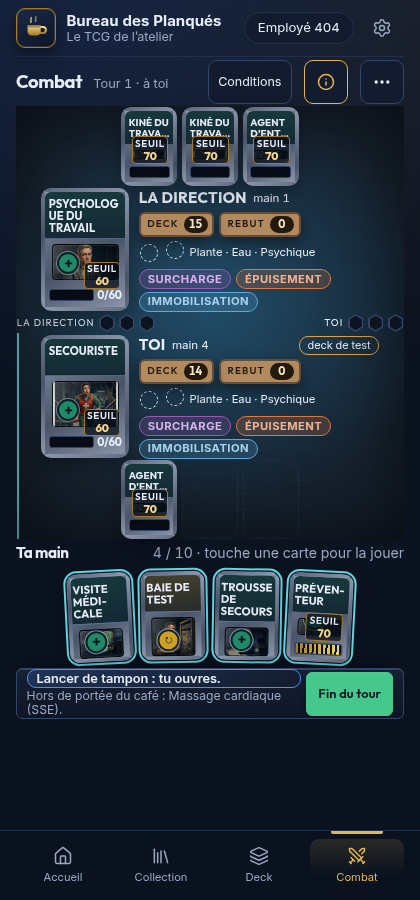
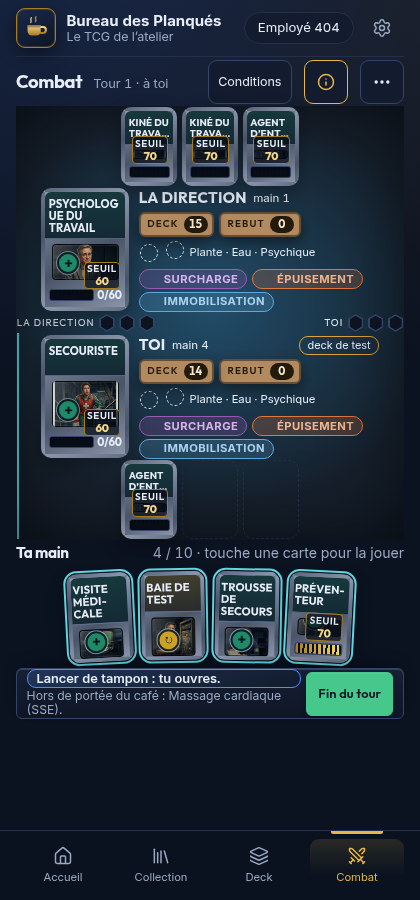
fix(combat): trois Conditions des deux côtés ne font plus défiler l'écran en sobre (#321)

Changed region(s): [[0.3405, 0.28, 0.8667, 0.3733], [0.3405, 0.4356, 0.8667, 0.5289]]

diff --git a/scripts/capturer.test.ts b/scripts/capturer.test.ts
@@ -650,7 +650,7 @@ describe('`npm run capturer` — l’écran de combat ne défile pas (D-103, #24
  * 420 × 900, avec trois Conditions et trois types par camp, les fiches passaient de 138 à
  * 188 px : l'écran défilait de 34 px et la barre d'action finissait à 846 px, sous la navigation
  * (830 px). La capture d'arrivée ne le voyait pas — il n'y a pas de Condition à l'arrivée —, d'où
- * le **pire cas** posé dans le DOM par `poserLePireCasDetaille`.
+ * le **pire cas** posé dans le DOM par `poserLePireCas`.
  */
 describe('`npm run capturer` — le mode détaillé tient dans la fenêtre (#292)', () => {
   const mesures = (barreBas: number, finBas: number) => [
@@ -689,17 +689,71 @@ describe('`npm run capturer` — le mode détaillé tient dans la fenêtre (#292
   it('joue réellement `détaillé` à chaque graine, pas-à-pas ouvert et terminé, et pose le pire cas', () => {
     const source = readFileSync(new URL('../scripts/capturer.mjs', import.meta.url), 'utf8');
     // Sans ces liens, le contrôle pourrait mordre dans son test et la capture ne mesurer que `sobre`.
-    expect(source).toContain('await mesurerDetaille(browser)');
+    expect(source).toContain('await mesurerDensite(browser, true)');
     expect(source).toContain('await mesurerAvecUnePression(browser, true)');
     expect(source).toContain('combatDetaille: true');
-    expect(source).toContain('.battle--detaille');
-    expect(source).toContain('page.evaluate(poserLePireCasDetaille)');
+    expect(source).toContain("`.battle--${detaille ? 'detaille' : 'sobre'}`");
+    expect(source).toContain('page.evaluate(poserLePireCas, detaille)');
     expect(source).toContain('${etat}, pire cas');
   });
 
-  it('range les annotations en ligne dans une fiche plus large, sans toucher aux cibles ni aux cafés (feuille de style)', () => {
+  it('range les Conditions en ligne dans les deux densités, et ne garde à `détaillé` que la largeur (feuille de style)', () => {
     const css = readFileSync(new URL('../src/styles.css', import.meta.url), 'utf8');
+    expect(css).toMatch(/\n\.poste__info\s*\{[^}]*flex-wrap:\s*wrap/);
+    expect(css).not.toMatch(/\n\.poste__info\s*\{[^}]*flex-direction:\s*column/);
     expect(css).toMatch(/\.battle--detaille \.board__fiche\s*\{[^}]*max-width:\s*15rem/);
-    expect(css).toMatch(/\.battle--detaille \.poste__info\s*\{[^}]*flex-direction:\s*row[^}]*flex-wrap:\s*wrap/);
+  });
+});
+
+/**
+ * Ticket #321 — **`sobre` aussi tient dans la fenêtre avec trois Conditions des deux côtés**.
+ *
+ * Trouvé par le harnais de #292 : en `sobre`, les Conditions (une icône chacune) étaient empilées
+ * en colonne, comme en `détaillé`. Mesuré le 27/10/2026 à 420 × 900 sur la feuille d'avant, trois
+ * Conditions par camp : l'arrivée défilait de 56 px (barre d'action à 868 px, « Fin du tour » à
+ * 865 px, navigation à 830 px) et le tour d'une Pression jouable, pas-à-pas ouvert, de 95 px.
+ * Le plan de `npm run capturer` ne **jouait** pas ce cas en `sobre`.
+ */
+describe('`npm run capturer` — `sobre` tient dans la fenêtre avec trois Conditions (#321)', () => {
+  const mesures = (mainBas: number, barreBas: number, finBas: number) => [
+    { nom: 'la main', selecteur: '.hand', present: true, haut: 612, bas: mainBas },
+    { nom: "la barre d'action du combat", selecteur: '.combat-barre', present: true, haut: 716, bas: barreBas },
+    { nom: '« Fin du tour »', selecteur: '.combat-barre__fin .button', present: true, haut: finBas - 44, bas: finBas }
+  ];
+
+  function controle(m: unknown[], defilement: number): string[] {
+    const env = { ...process.env };
+    delete env.BASE_URL;
+    delete env.PORT;
+    const sortie = execFileSync(
+      process.execPath,
+      [
+        'scripts/capturer.mjs',
+        '--controle-hauteur',
+        JSON.stringify({ limite: 830, pasAPasOuvert: true, etat: '(sobre), pire cas', mesures: m, defilement })
+      ],
+      { cwd: root, encoding: 'utf8', env }
+    );
+    return JSON.parse(sortie) as string[];
+  }
+
+  it('le contrôle mord sur la mesure d’avant : barre à 868 px, bouton à 865 px, défilement de 56 px', () => {
+    const problemes = controle(mesures(816, 868, 865), 56);
+    expect(problemes.some((p) => p.includes('défile de 56 px') && p.includes('sobre), pire cas'))).toBe(true);
+    expect(problemes.some((p) => p.includes('bas de la barre d\'action du combat à 868 px'))).toBe(true);
+    expect(problemes.some((p) => p.includes('bas de « Fin du tour » à 865 px'))).toBe(true);
+    expect(problemes.some((p) => p.includes('la main n\'a que 14 px de marge'))).toBe(true);
+  });
+
+  it('laisse passer la mesure d’après : barre à 806 px (24 px de marge), aucun défilement', () => {
+    expect(controle(mesures(714, 806, 761), 0)).toEqual([]);
+  });
+
+  it('joue `sobre` avec le pire cas, à l’arrivée et au tour d’une Pression jouable', () => {
+    const source = readFileSync(new URL('../scripts/capturer.mjs', import.meta.url), 'utf8');
+    expect(source).toContain('await mesurerDensite(browser, false)');
+    expect(source).toContain("`.battle--${detaille ? 'detaille' : 'sobre'}`");
+    // Le pire cas du tour d'une Pression jouable, dans les deux densités.
+    expect(source).toContain('${etat}, tour ${tour}, pire cas');
   });
 });

diff --git a/src/styles.css b/src/styles.css
@@ -2439,7 +2439,7 @@ h2 {
 .board__fiche {
   display: flex;
   flex-direction: column;
-  gap: 0.25rem;
+  gap: 0.15rem;
   max-width: 11rem;
   min-width: 0;
 }
@@ -2451,44 +2451,37 @@ h2 {
 
 /* Ce qui se passe au Poste (Stress écrit, cafés, Machine, Conditions), sous le nom du camp. */
 .poste__info {
-  align-items: flex-start;
+  align-items: center;
   display: flex;
-  flex-direction: column;
-  gap: 0.25rem;
+  flex-wrap: wrap;
+  gap: 0.15rem 0.3rem;
   min-width: 0;
 }
 
-/* **`détaillé` ne fait pas grossir le plateau** (#292, SPEC-COMBAT-UI T9). Les annotations qu'il
-   remet — le nom des Conditions, les types du Deck — sont plus larges que leurs icônes ; empilées
-   en colonne, trois Conditions et trois types rallongeaient chaque fiche de 50 px, et la barre
-   d'action passait sous la navigation (mesuré à 420 × 900 : défilement de 34 px, barre à 846 px
-   pour une limite de 830). Elles se rangent donc **en ligne, avec retour**, dans une fiche plus
-   large : elle garde la hauteur qu'elle a en `sobre`, et rien de ce qui décide (cafés,
-   Conditions) ne disparaît. */
-.battle--detaille .board__fiche {
-  /* Deux noms de Conditions côte à côte (≈ 190 px) : à 11 rem, chacun prenait sa rangée. */
-  gap: 0.15rem;
-  max-width: 15rem;
-}
-
-.battle--detaille .poste__info {
-  align-items: center;
-  flex-direction: row;
-  flex-wrap: wrap;
-  gap: 0.15rem 0.3rem;
-}
-
-/* Le nom d'une Condition garde la taille du plancher (`--fs-xs`) ; c'est la pastille qui se serre,
-   pour que deux rangées de Conditions ne dépassent pas la hauteur de la carte du Poste. */
-.battle--detaille .poste__info .status-chip {
+/* **Les Conditions se rangent en ligne, avec retour** (#292, #321), dans les deux densités.
+   Empilées en colonne, chacune prenait sa rangée : à 420 × 900, trois Conditions des deux côtés
+   faisaient défiler l'écran de 56 px en `sobre` (barre d'action à 868 px, navigation à 830 px) et de
+   34 px en `détaillé`. En ligne, la fiche garde la hauteur de la carte du Poste, et rien de ce qui
+   décide (cafés, Conditions) ne disparaît. La pastille se serre en hauteur ; son texte garde
+   `--fs-xs`, et sa cible n'est pas un bouton. */
+.poste__info .status-chip {
   padding-block: 0.04rem;
 }
 
-.battle--detaille .poste__machine {
+.poste__machine {
   align-items: center;
   display: inline-flex;
   flex-wrap: wrap;
   gap: 0.25rem;
+}
+
+/* **`détaillé` ne fait pas grossir le plateau** (#292, SPEC-COMBAT-UI T9). Les annotations qu'il
+   remet — le nom des Conditions, les types du Deck — sont plus larges que leurs icônes : la fiche
+   passe de `11rem` à `15rem` pour que deux noms de Conditions (≈ 190 px) tiennent côte à côte ;
+   à 11 rem, chacun prenait sa rangée. C'est la **seule** différence de rangement entre les deux
+   densités : le reste (ligne avec retour, pastille serrée) est dans la base, au-dessus. */
+.battle--detaille .board__fiche {
+  max-width: 15rem;
 }
 
 /* Les **types de café du Deck**, annotation du mode `détaillé` (#189) : en `sobre`, la

diff --git a/docs/preuves/combat-ui-2026-10-27/README.md b/docs/preuves/combat-ui-2026-10-27/README.md
@@ -132,7 +132,7 @@ cibles de 44 px). Avec l'ancienne feuille de style, la commande **échoue** (28 
 exemple `l'écran de combat défile de 34 px (… détaillé, pas-à-pas terminé), pire cas`) ; avec la
 nouvelle, elle sort **exit 0**.
 
-**Limite connue, antérieure à T9 et hors périmètre** : en `sobre`, les mêmes trois Conditions sur les
+**Limite connue au moment de T9 — corrigée par #321 (section suivante)** : en `sobre`, les mêmes trois Conditions sur les
 deux camps, au tour à deux rangées de barre et pas-à-pas ouvert, font défiler l'écran de 23 px
 (sonde ponctuelle, graine 22/10 14:30 : barre à 835 px). Le cas est quasi impossible (deux camps
 à trois Conditions au premier combat) et `détaillé` y fait **mieux** que `sobre` (barre à 806 px) ;
@@ -140,3 +140,30 @@ il n'est pas gardé ici.
 
 **Ce que les captures ne prouvent pas** : un Poste qui porterait les trois Conditions *réelles* (la
 mesure les pose dans le DOM, le moteur n'est pas touché) ; la lecture au pouce.
+
+## `apres/` — #321, `sobre` tient aussi avec trois Conditions des deux côtés
+
+La limite signalée par T9 devient le ticket **#321**. Le plan de `npm run capturer` joue maintenant le
+**pire cas** (trois Conditions par camp, posées dans le DOM) en **`sobre`** comme en `détaillé` : à
+l'arrivée (quatre graines, pas-à-pas ouvert et terminé) **et** au tour d'une Pression jouable.
+
+**Mesuré sur la feuille d'avant** (`npm run capturer`, exit 1, 54 manquements, tous en `sobre`) : en `sobre`, à l'arrivée,
+l'écran défile de 56 px (barre d'action à 868 px, « Fin du tour » à 865 px, navigation à 830 px), de
+**95 px** au tour d'une Pression jouable pas-à-pas ouvert, de 44 px pas-à-pas terminé. L'estimation de
+23 px de T9 était celle d'une sonde ponctuelle, plus basse que le plan complet. En `détaillé`, #292
+tenait déjà.
+
+**La cause** : en `sobre`, chaque Condition (une icône) prenait sa **rangée**, comme en `détaillé`
+avant #292. **La correction** : les règles de rangement de #292 passent de `.battle--detaille` à la
+**base** (`.poste__info` en ligne avec retour, pastille serrée, `.poste__machine` en ligne). Les deux
+densités **convergent** : ne reste propre à `détaillé` que la **largeur** de la fiche (15 rem au lieu
+de 11 rem, pour que deux *noms* de Conditions tiennent côte à côte — en `sobre`, trois icônes tiennent
+sur une rangée).
+
+**Mesuré après** (`npm run capturer`, exit 0) : défilement 0 dans tous les états « pire cas » ; marge
+la plus juste de la barre d'action **24 px** en `sobre` (21 px en `détaillé`, au tour d'une Pression,
+pas-à-pas ouvert), pour 20 px exigés. Capture : `apres/420-combat-sobre-pire-cas.png`
+(`apres/420-combat-detail*.png` sont reprises de la même commande).
+
+**Ce que ça ne prouve pas** : comme pour T9, les Conditions sont posées dans le DOM — le moteur n'est
+pas touché ; l'icône y est un `svg` vide de 12 px, comme la taille de celle de `StatusBadge`.
